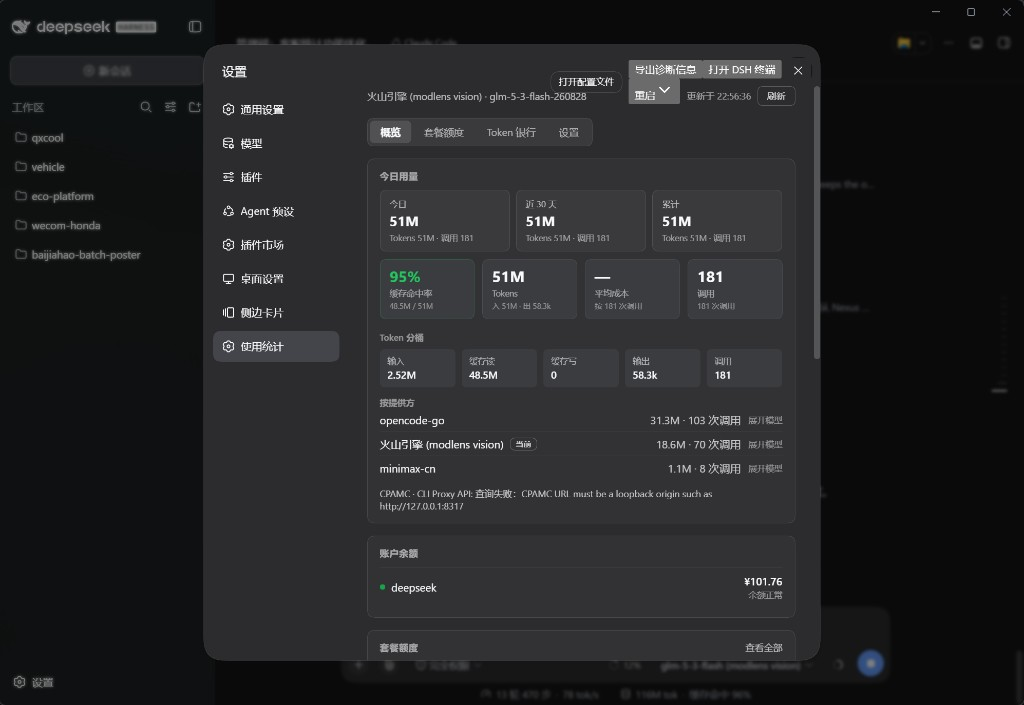
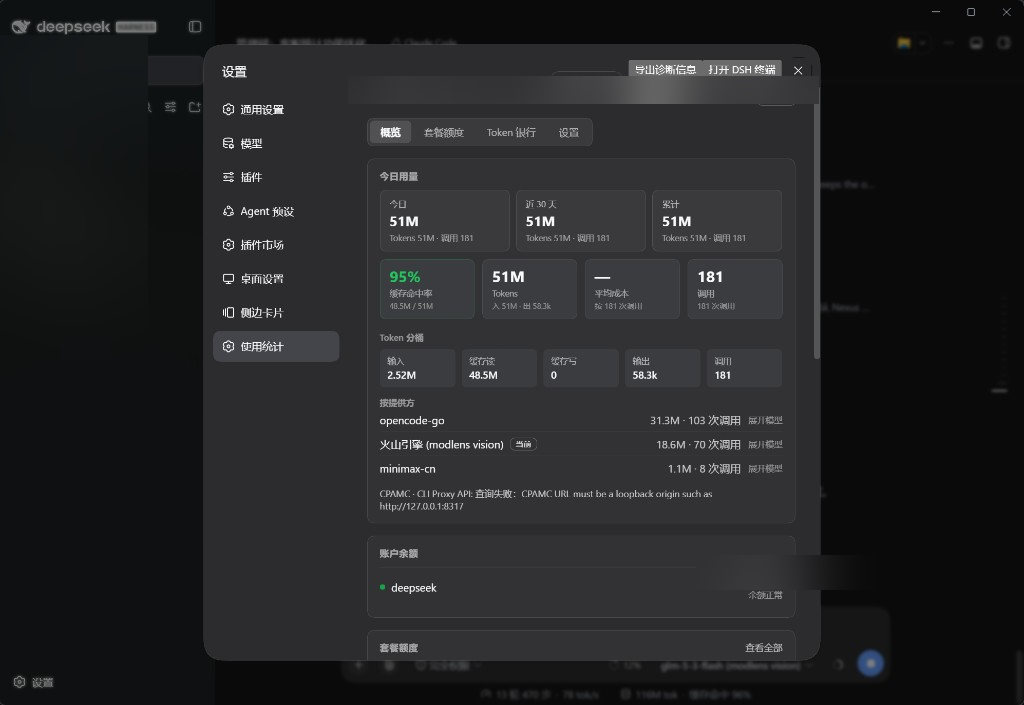
Redact sensitive screenshot regions for public README.
Blur project/workspace names, balance amounts, and chat background so marketplace previews do not leak private identifiers.

diff --git a/scripts/redact-screenshots.py b/scripts/redact-screenshots.py
@@ -1,0 +1,61 @@
+"""Redact sensitive regions from README screenshots.
+
+Run after replacing the raw captures under docs/screenshots/:
+  python scripts/redact-screenshots.py
+"""
+from __future__ import annotations
+
+from pathlib import Path
+
+from PIL import Image, ImageFilter
+
+ROOT = Path(__file__).resolve().parents[1] / 'docs' / 'screenshots'
+
+
+def blur_box(im: Image.Image, box: tuple[float, float, float, float], radius: int = 16) -> None:
+  left, top, right, bottom = (int(v) for v in box)
+  left = max(0, left)
+  top = max(0, top)
+  right = min(im.width, right)
+  bottom = min(im.height, bottom)
+  if right <= left or bottom <= top:
+    return
+  crop = im.crop((left, top, right, bottom))
+  for _ in range(4):
+    crop = crop.filter(ImageFilter.GaussianBlur(radius=radius))
+  im.paste(crop, (left, top))
+
+
+def redact_settings(path: Path) -> None:
+  im = Image.open(path).convert('RGB')
+  w, h = im.size
+  # Outer project/workspace rail (left of settings modal).
+  blur_box(im, (0, h * 0.05, w * 0.145, h * 0.95), radius=26)
+  # Header model/route id under the usage tabs.
+  blur_box(im, (w * 0.34, h * 0.108, w * 0.80, h * 0.148), radius=12)
+  # Balance currency amount only.
+  blur_box(im, (w * 0.68, h * 0.788, w * 0.92, h * 0.838), radius=14)
+  im.save(path, optimize=True)
+  print(f'redacted {path.name} ({w}x{h})')
+
+
+def redact_composer(path: Path) -> None:
+  im = Image.open(path).convert('RGB')
+  w, h = im.size
+  # Thin chat band above the plan card.
+  blur_box(im, (0, 0, w, h * 0.12), radius=24)
+  # Far-right chat fragment beside the card.
+  blur_box(im, (w * 0.82, h * 0.12, w, h * 0.55), radius=18)
+  # Tiny bottom-right status chip only.
+  blur_box(im, (w * 0.78, h * 0.88, w, h), radius=12)
+  im.save(path, optimize=True)
+  print(f'redacted {path.name} ({w}x{h})')
+
+
+def main() -> None:
+  redact_composer(ROOT / 'composer-plan-strip.png')
+  redact_settings(ROOT / 'settings-overview.png')
+
+
+if __name__ == '__main__':
+  main()
